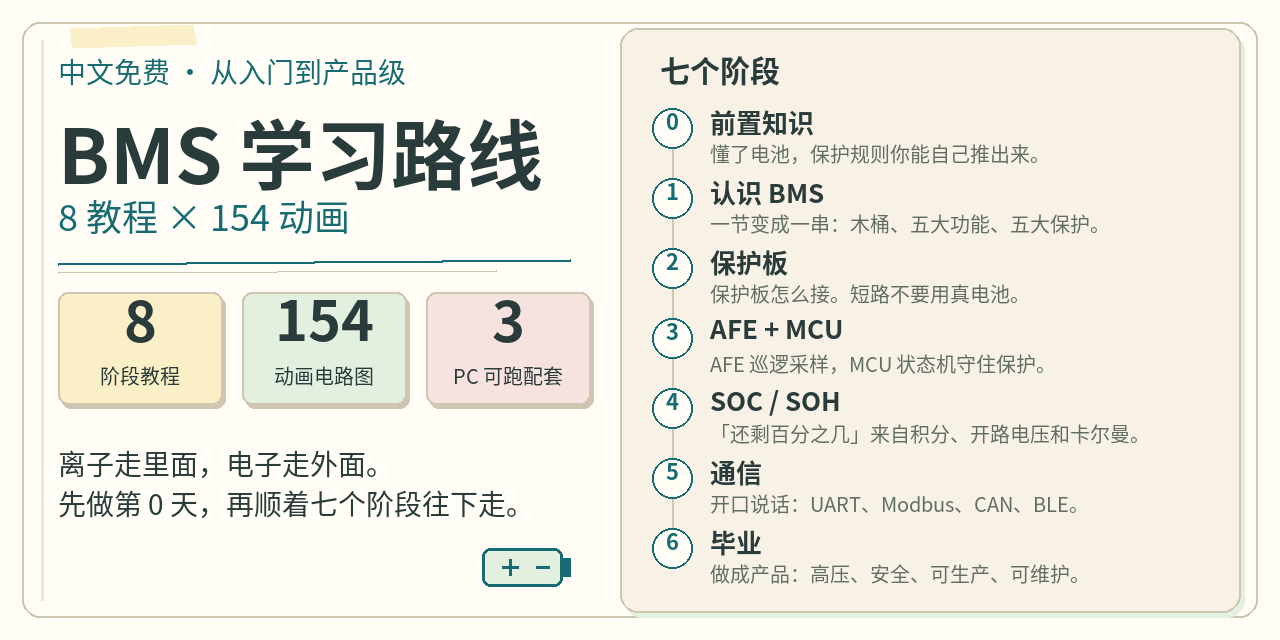
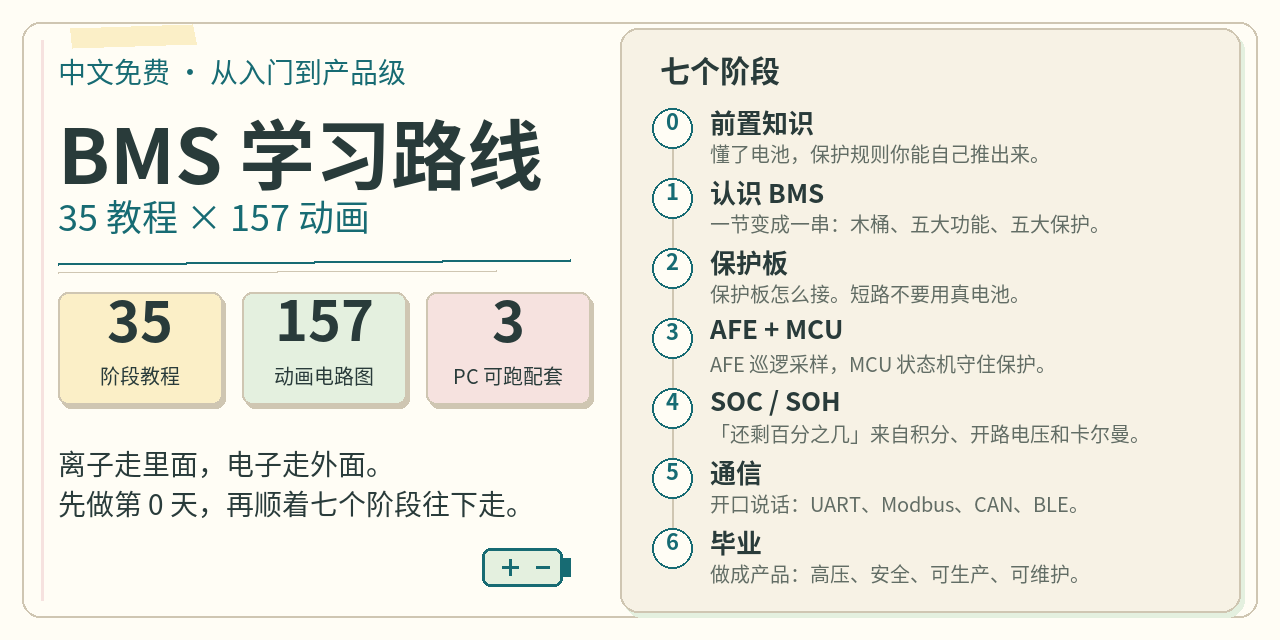
docs(circuits): 阶段 4 补三张动画，总数更新到 157
- 新增 online-identification-loop / aging-two-clocks-stage4 /
  charging-map-min 三张动画，分别用于阶段 4 §4.4b、§4.6b、§4.7b，
  均带 bms-motion 注记层、深色模式与降级契约
- 动画索引补三行，并把「154 张」改成「157 张」
- bms-roadmap.svg 底栏计数 154 → 157（有意改动的可见文字，技术指纹
  随书稿提交更新）；社交卡由 tools/gen_social_card.py 重生成，与现值
  逐字节一致

Changed region(s): [[0.0312, 0.3125, 0.2812, 0.375], [0.0938, 0.4688, 0.1562, 0.5625], [0.25, 0.4688, 0.3125, 0.5312]]

diff --git a/docs/circuits/README.md b/docs/circuits/README.md
@@ -6,7 +6,7 @@ prev:
 
 # 电路与芯片详解（含动画）
 
-> **本篇你会学到**　五篇电路详解各管哪一段，以及 154 张动画按阶段收在哪一张表。
+> **本篇你会学到**　五篇电路详解各管哪一段，以及 157 张动画按阶段收在哪一张表。
 > **预计用时**　当索引用。随阶段翻，不必一次看完。
 > **前置**　想先选层，看 [能力地图](../stages/bloom-map.md)。想先看时间过程，看下面的电路动态分析。
 
@@ -26,7 +26,7 @@ prev:
   - [七句口诀](README.md#七句口诀)
   - [走线会把过程做坏](README.md#走线会把过程做坏)
   - [短自测](README.md#短自测)
-- [一百五十四张动画与电路图](README.md#一百五十四张动画与电路图)
+- [一百五十七张动画与电路图](README.md#一百五十七张动画与电路图)
   - [学习路线](README.md#学习路线)
   - [阶段 0：电池、倍率与采样基础](README.md#阶段-0电池倍率与采样基础)
   - [阶段 1：成组、保护与木桶](README.md#阶段-1成组保护与木桶)
@@ -106,7 +106,7 @@ prev:
 
 **练完你会怎样**：预充爬不上来你不合主闸。短路你交给硬件的微秒。HVIL 去抖拉太长，你知道人会先碰到端子。数字都是示例。
 
-## 一百五十四张动画与电路图
+## 一百五十七张动画与电路图
 
 每张 SVG 在下面的阶段表里只占一行。四列固定为：动画、演示、层级、出现位置。上面的「电路动态分析」是过程索引，和这张总表不是同一张目录。
 
@@ -183,7 +183,7 @@ prev:
 | [MUX 扫描采样](assets/mux-scan.svg) | 一颗 ADC 巡逻测 16 串 | 理解 | ② / 阶段 3 |
 | [NTC 测温](assets/ntc-temperature.svg) | 分压电路：温度升 → 阻值降 → 中点电压降 | 理解 | ② |
 | [共模与隔离](assets/isolation-common-mode.svg) | 300V 电位差：直连冒烟 vs 隔离跳过 | 理解 | ② |
-| [BQ769 评估板与 isoSPI 线束](assets/bq769-evb-isospi.svg) | 共模按节数乘大约 3.7 V 升高，差分示意停在 2 V。评估板实拍仍然没有 | 分析 | ② §5 |
+| [BQ769 评估板与 isoSPI 线束](assets/bq769-evb-isospi.svg) | 共模按节数乘大约 3.7 V 升高，差分示意停在 2 V。评估板实拍仍然没有 | 分析 | ② §5 / 阶段 3 §3.3 |
 | [AFE 寄存器读取](assets/afe-register-read.svg) | 示意校验：0x12+0x34 的低 8 位是 0x46。第二字节翻成 0x35 就丢掉重读。不是芯片 CRC 多项式 | 应用 | 阶段 3 |
 | [采样链误差预算瀑布](assets/error-budget-waterfall.svg) | 五级误差累加超预算；标定压回 1.8mV | 分析 | ② §1 |
 | [状态机巡游](assets/state-machine.svg) | 令牌走遍状态图；底栏写明故障锁存不会自动松开 | 应用 | 阶段 3 / 6 |
@@ -234,6 +234,9 @@ prev:
 | [OCV 折线插值](assets/ocv-linear-interp.svg) | 表点之间的弦，在 s=0.125 低大约 25 mV | 分析 | 阶段 4 §4.3 / 详解③ |
 | [局部充电估容量](assets/soh-partial-window.svg) | 不确定度 = 0.02/ΔSOC。0.72/0.40=1.80 Ah | 分析 | 阶段 4 §4.6 / 详解③ |
 | [增量容量峰](assets/ica-dqdv.svg) | 两座示意高斯峰。老化变矮并右移 0.03 V | 分析 | 阶段 4 §4.6 / 详解③ |
+| [在线参数辨识闭环](assets/online-identification-loop.svg) | 有激励才计算残差；候选参数经过物理围栏与历史趋势验证后才更新 | 应用 | 阶段 4 §4.4b |
+| [日历与循环两只老化时钟](assets/aging-two-clocks-stage4.svg) | 时间、温度与存储 SOC 推动日历支；累计 Ah、倍率与 DOD 推动循环支 | 分析 | 阶段 4 §4.6b |
+| [充电地图四约束取最小](assets/charging-map-min.svg) | 先按温度和 SOC 查格点，再取析锂、温度、电压与 SOP 四项上限的最小值 | 应用 | 阶段 4 §4.7b |
 
 ### 阶段 5：通信
 
@@ -307,7 +310,7 @@ prev:
 | 动画 | 演示 | 层级 | 出现位置 |
 |---|---|---|---|
 | [采样线靠近功率回路](assets/sense-beside-power.svg) | 贴着粗铜走，读数在示例的 3.65 V 与 3.78 V 之间跳 | 应用 | 详解⑤ §2 |
-| [开尔文与两线](assets/kelvin-vs-twowire.svg) | 引线 0.4 mΩ 算进去，100 A 读成 180 A | 分析 | 详解② §8 / ⑤ §2 |
+| [开尔文与两线](assets/kelvin-vs-twowire.svg) | 引线 0.4 mΩ 算进去，100 A 读成 180 A | 分析 | 详解② §8 / ⑤ §2 / 阶段 3 §3.6 |
 | [栅极回流环](assets/gate-return-loop.svg) | 近环示意 10 μs 把 500 A 降到 0，远环示意 200 μs。I²t 来自线性下降的积分 | 应用 | 详解⑤ §3 |
 | [隔离槽上的铜桥](assets/isolation-copper-bridge.svg) | 空槽按示意高通挡住直流；铜桥让 400 V 出现在通信侧。不写爬电毫米 | 应用 | 详解⑤ §5 |
 | [热耦合到基准](assets/ref-heat-couple.svg) | 均衡电阻贴着基准，整串读数一起偏 | 应用 | 详解⑤ §4 |
